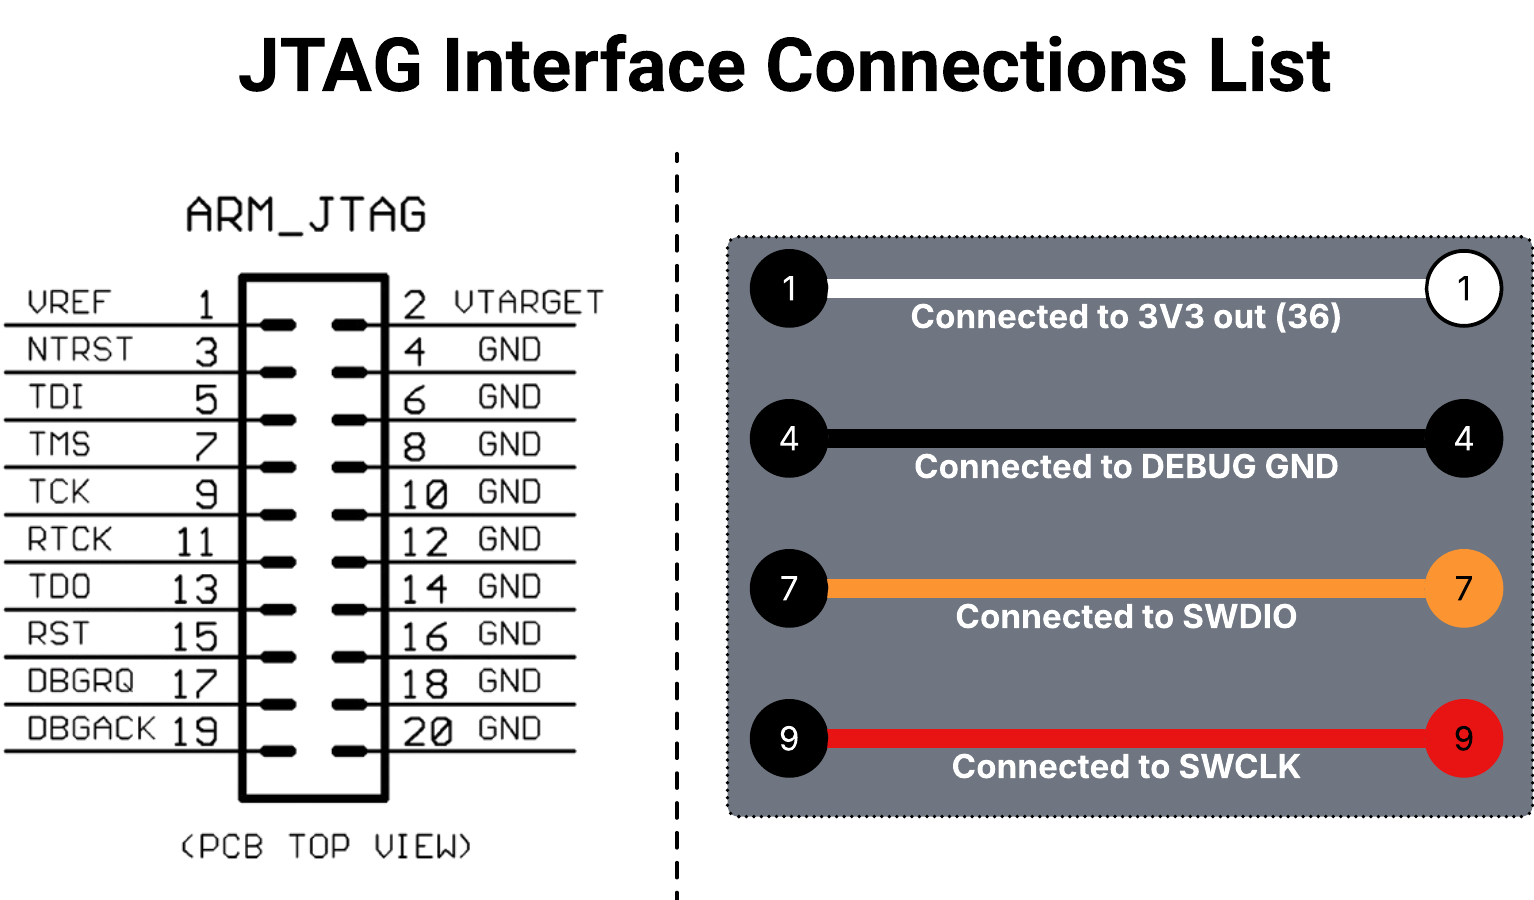
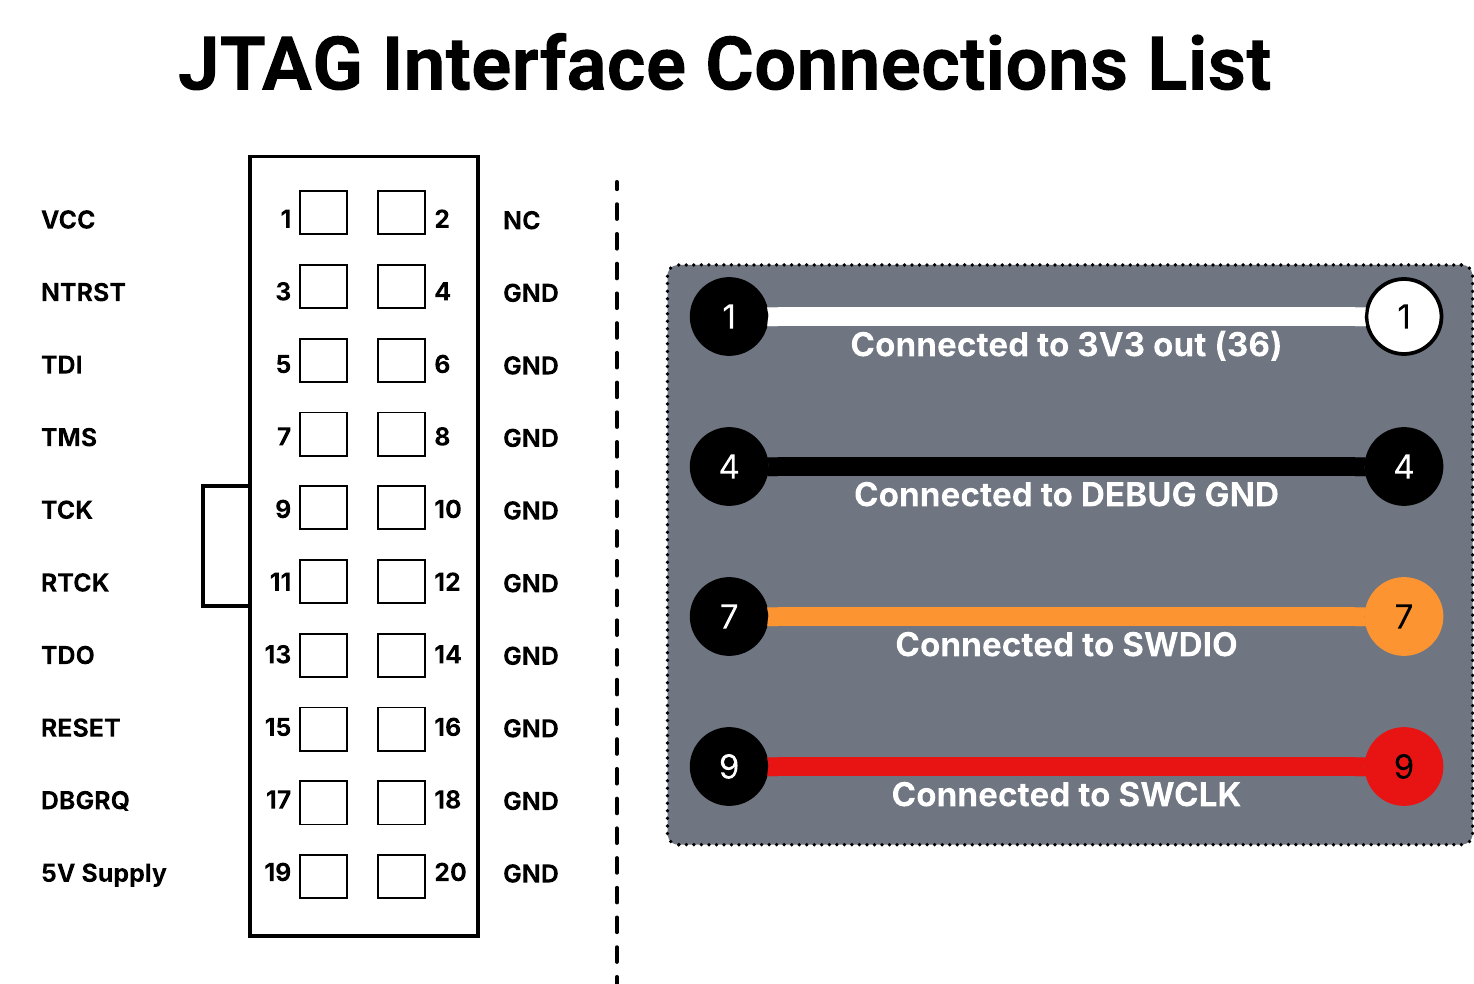
Final changes V2

diff --git a/Chapters/implementation.tex b/Chapters/implementation.tex
@@ -93,7 +93,7 @@ Now the board shows as a CMSIS-DAP probe in the list of devices, and we can proc
 
 \subsection{SEGGER J-link}
 
-\begin{figure}[H]
+\begin{figure}[]
     \begin{center}
       \includegraphics[width=0.48\textwidth]{jlink\_setup}
     \end{center}
@@ -101,20 +101,21 @@ Now the board shows as a CMSIS-DAP probe in the list of devices, and we can proc
     \label{fig:jlink_setup}
 \end{figure}
 
-The SEGGER J-Link, specifically the J-Link EDU V11 model, implementation requires a lot of background setup work before it becomes a viable debugging solution. Since the target device in this case the TKJHAT board that is already attached to a Single Board Computer (SBC) in the form of the Pico W, a direct connection via the debugging pins is possible. Wiring can be difficult without the necessary breakout boards, as loose cables can disrupt debugging operations. This specific implementation utilises male-to-male DuPont wire to bridge the capability gap from the lack of of proper proprietary connectors.
+The SEGGER J-Link, specifically the J-Link EDU V11 model, implementation requires a lot of background setup work before it becomes a viable debugging solution. Since the target device in this case the TKJHAT board that is already attached to a Single Board Computer (SBC) in the form of the Pico W, a direct connection via the debugging pins is possible. Wiring can be difficult without the necessary breakout boards, as loose cables can disrupt debugging operations. This specific implementation, shown in \figref{fig:jlink_setup}, utilises female-to-male DuPont wires to bridge the capability gap from the lack of of proper proprietary connectors.
 
 \begin{figure}[ht]
     \begin{center}
       \includegraphics[width=0.8\textwidth]{jlink\_connections}
     \end{center}
-    \caption{List of connections from the J-Link to the Pico W. JTAG pinout diagram from OLIMEX ARM-JTAG dongle manual \cite{olimex}. Copyright~\textcopyright~2004, OLIMEX Ltd., All rights reserved.}
+    \caption{List of connections from the J-Link to the Pico W. JTAG pinout diagram redrawn and adapted from the OLIMEX ARM-JTAG dongle manual \cite{olimex}. Original source Copyright~\textcopyright~2004,  OLIMEX Ltd., All rights
+    reserved.}
     \label{fig:jlink_connect}
 \end{figure}
 
 
 It is extremely important to correctly wire up this setup. Incorrect connections will most commonly result in a complete failure to establish communication between the SEGGER J-Link EDU V11 and the Pico W. If key signals such as SWDIO, SWCLK, or ground are miswired or not properly connected, the debugger will not be able to detect the target device at all. This typically appears as connection errors in the J-Link software, where the system repeatedly fails to identify or communicate with the microcontroller.
 
-More severe consequences can occur if power-related pins are connected incorrectly. Miswiring voltage lines or shorting power to ground can damage the Pico W, the J-Link device, or both. Even less destructive errors, such as incorrect reference voltage connections, can lead to improper signal levels and unpredictable operation. For this reason, careful verification of all wiring is essential before attempting to use the debugger.
+More severe consequences can occur if power-related pins are connected incorrectly. Miswiring voltage lines or shorting power to ground can damage the Pico W, the J-Link device, or both. Even less destructive errors, such as incorrect reference voltage connections, can lead to improper signal levels and unpredictable operation. For this reason, careful verification of all wiring, illustrated in \figref{fig:jlink_connect}, is essential before attempting to use the debugger.
 
 The Segger J-Link EDU probe requires initial firmware configuration and server setup before use. The firmware update is performed using the JLinkConfig utility, after which the JLinkGDBServer application provides the GDB server interface where it acts a bridge between GDB and the hardware. There exists a GUI for this tool, however, through testing, it has proven to be inflexible. In the instances where certain settings or physical connections are incorrect, the GUI will close automatically without giving the user an opportunity to try again. Therefore, for convenience sake, the command line is preferred for its supperior usability and reliability.
 
@@ -153,7 +154,7 @@ The overarching design philosophy adopted throughout the project placed a strong
     \label{fig:debug_case_1}
 \end{figure}
 
-This philosophy is clearly reflected in the final iteration of the enclosure, particularly in the implementation of a simple inverted dovetail lid mechanism. Earlier versions of the design incorporated a more complex hinge and locking system, which, while functional, introduced additional manufacturing complexity and potential durability concerns. By replacing this mechanism with an inverted dovetail interface, the design achieves secure closure through a purely geometric solution that is both robust and easy to manufacture. This not only reduces the likelihood of mechanical failure but also simplifies assembly and everyday use, aligning with the broader objective of creating a practical and reliable debugging tool for students.
+This philosophy is clearly reflected in the final iteration of the enclosure, particularly in the implementation of a simple inverted dovetail lid mechanism. Earlier versions of the design incorporated a more complex hinge-latch locking system, shown in \figref{fig:debug_case_1}, which while functional, introduced additional manufacturing complexity and potential durability concerns. By replacing this mechanism with an inverted dovetail interface, the design achieves secure closure through a purely geometric solution that is both robust and easy to manufacture. This not only reduces the likelihood of mechanical failure but also simplifies assembly and everyday use, aligning with the broader objective of creating a practical and reliable debugging tool for students. An example of this version, dubbed Version 6, is seen in \figref{fig:debug_case_2}.
 
 \begin{figure}[H]
   \begin{center}
@@ -165,19 +166,19 @@ This philosophy is clearly reflected in the final iteration of the enclosure, pa
 
 The overall cumulative cost of raw materials required for manufacturing represented another significant and non-trivial consideration that was carefully evaluated throughout the iterative design process, given that there existed a clearly identified need to potentially scale the deployment of the debugging platform. After careful evaluation of available manufacturing materials, and due to the favorable combination of affordability characteristics and relative structural durability properties, Polylactic Acid (PLA) thermoplastic filament was selected and designated as the chosen material from which the protective enclosure would be fabricated and produced. The design was additionally and deliberately optimised specifically for ease of manufacturing using commercially available and widely accessible fused deposition modeling (FDM) three-dimensional printing equipment that is commonly present in many professional fabrication facilities, educational institutions, and even home-based maker and fabrication set-ups. 
 
-Through careful iterative optimisation of the design geometry and thoughtful selection of print parameters, the final optimised design iteration achieved a remarkably efficient combined printing time of approximately two hours for the complete assembly and required only 26 grams of PLA filament material for the entire protective casing structure, metrics that clearly indicate and demonstrate a high level of successful optimization with regard to both print settings configuration and manufacturing best practices. The final version of the case also retained the modularity that was envisioned from the start, with it being able to accommodate for all the possible debugging options; from using the available second core present on the SBC to using another SBC to serve as the debugging probe.
+Through careful iterative optimisation of the design geometry and thoughtful selection of print parameters, the final optimised design iteration achieved a remarkably efficient combined printing time of approximately two hours for the complete assembly and required only 26 grams of PLA filament material for the entire protective casing structure, metrics that clearly indicate and demonstrate a high level of successful optimization with regard to both print settings configuration and manufacturing best practices. The final version of the case, shown in \figref{fig:debug_case_3}, also retained the modularity that was envisioned from the start, with it being able to accommodate for all the possible debugging options; from using the available second core present on the SBC to using another SBC to serve as the debugging probe as clearly shown in \figref{fig:debug_case_4}.
 
-\begin{figure}[H]
+\begin{figure}[]
   \begin{center}
-    \includegraphics[width=0.5\textwidth]{final_case}
+    \includegraphics[width=0.45\textwidth]{final_case}
   \end{center}
-  \caption{The final version of the 3D-printed casing with the TKJHAT inside.}
+  \caption{The final version of the 3D-printed casing with the TKJHAT inside. The setup shown is for a second-core debugger.}
   \label{fig:debug_case_3}
 \end{figure}
 
-\begin{figure}[H]
+\begin{figure}[]
   \begin{center}
-    \includegraphics[width=0.5\textwidth]{final_case_second_pico}
+    \includegraphics[width=0.45\textwidth]{final_case_second_pico}
   \end{center}
   \caption{The final version of the 3D-printed casing with wiring set-up for a second pico debugger.}
   \label{fig:debug_case_4}

diff --git a/Chapters/relatedwork.tex b/Chapters/relatedwork.tex
@@ -10,7 +10,7 @@ Especially Pico family boards became increasingly popular in the education. Davi
 
 The debugging is the integral part of the software development process. Its purpose is to ensure proper functioning and the performance of the software. There are different approaches to debugging, with the simplest one being just printing the program values to the output terminal. While this approach is easy to use and requires no additional tools, it has several limitations. Print statements must be manually inserted and removed, they provide visibility only into information explicitly selected by the programmer, and can alter the timing characteristics of the application. In embedded systems, where applications often interact with hardware peripherals and may contain timing-sensitive code, such modifications can mask or even introduce faults.
 
-In this thesis however, we will focus on a more advanced debugging techniques that rely on a debugger, which can pause program execution at user-defined breakpoints. When execution is halted, the developer can inspect the complete program state without modifying the source code. As can be seen in the \figref{fig:breakpoint_features}, this includes examining local and global variable values, processor registers, memory contents, call stacks, and the current execution path. In systems running a Real-Time Operating System (RTOS), the debugger can additionally provide information about active tasks or threads, their states, priorities, stack usage, and scheduling behavior.  The ability to step through code instruction-by-instruction or line-by-line further helps developers understand how program state changes over time and identify the root causes of faults more efficiently than with print-based debugging alone.
+In this thesis however, we will focus on a more advanced debugging techniques that rely on a debugger, which can pause program execution at user-defined breakpoints. When execution is halted, the developer can inspect the complete program state without modifying the source code. As can be seen in \figref{fig:breakpoint_features}, this includes examining local and global variable values, processor registers, memory contents, call stacks, and the current execution path. In systems running a Real-Time Operating System (RTOS), the debugger can additionally provide information about active tasks or threads, their states, priorities, stack usage, and scheduling behavior.  The ability to step through code instruction-by-instruction or line-by-line further helps developers understand how program state changes over time and identify the root causes of faults more efficiently than with print-based debugging alone.
 
 \begin{figure}[ht] 
    \centering
@@ -227,7 +227,7 @@ RP2350 chip has a more complicated debug topology depicted in \figref{fig:rp2350
     \begin{center}
     \includegraphics*[width=\textwidth]{rp2350\_debug}
     \end{center}
-    \caption{RP2350 debug topology. Reproduced from RP2350 Datasheet \cite{raspberry_rp2350}. Copyright~\textcopyright~2023-2025 Raspberry Pi Ltd.}
+    \caption{RP2350 debug topology. Reproduced from RP2350 Datasheet \cite{raspberry_rp2350}. Copyright~\textcopyright~2023-2025 Raspberry Pi Ltd. under CC-SA license.}
     \label{fig:rp2350_debug}
 \end{figure}
  
@@ -251,7 +251,7 @@ J-Link probes support advanced debugging features including Real Time Transfer (
 
 521287A Introduction to Computer Systems is a degree level course that explains how a computer works as a complete stack, moving from high-level programs down to hardware in a conceptual and beginner-friendly way. It is a foundational course that is essential for prospective students wishing to advance to 521286A Computer Systems where the concepts are delved at a much deeper and more technical level, focusing on how these mechanisms are implemented and how they affect performance and functionality. While separate courses, they share the same course content at first as the two are implemented simultaneously, with students of both courses using the TKJHAT to experiment and derive solutions to complex problems presented to them during the implementation time of the courses.
 
-The TKJHAT itself is an open-source, open-hardware, Hardware Attached on Top (HAT) platform designed for the Raspberry Pi Pico W by members of the Faculty of Information Technology and Electrical Engineering to support IoT and embedded systems education in the University of Oulu through the aforementioned courses. The development of this platform was driven by specific requirements identified through systematic evaluation: affordability (under 60€ per student), customizability to meet evolving teaching needs, easy integration into multiple courses, alignment with industry standards, Real-Time Operating System (RTOS) support, and wireless connectivity capabilities \cite{kelhala:2024}.
+The TKJHAT itself, as seen in \figref{fig:tkjhat}, is an open-source, open-hardware, custom-built Hardware Attached on Top (HAT) platform designed for the Raspberry Pi Pico W by members of the Faculty of Information Technology and Electrical Engineering to support IoT and embedded systems education in the University of Oulu through the aforementioned courses. The development of this platform was driven by specific requirements identified through systematic evaluation: affordability (under 60€ per student), customizability to meet evolving teaching needs, easy integration into multiple courses, alignment with industry standards, Real-Time Operating System (RTOS) support, and wireless connectivity capabilities \cite{kelhala:2024}.
 
 \begin{figure}[ht]
     \begin{center}
@@ -269,7 +269,7 @@ FreeRTOS emerged as the preferred choice due to its simplest API, excellent docu
 
 The development environment utilizes Visual Studio Code with the Cortex-Debug extension and CMake, providing full integration with raw Pico SDK and FreeRTOS APIs while offering simple building, flashing, and debugging capabilities through an intuitive user interface \cite{kelhala:2024}. This setup was chosen over PlatformIO, which, despite offering a complete toolchain, limited access to raw SDK functionality due to its Arduino core foundation \cite{kelhala:2024}.
 
-The peripherals present in the TKJHAT reflect its educational design philosophy of balancing simplicity for beginners while maintaining access to low-level hardware functionality for advanced learners \cite{kelhala:2024} and are interfaced in two different ways: via General-Purpose Input/Output (GPIO) pins and Inter-Integrated Circuit ($\text{I}^2\text{C}$) buses.
+The peripherals present in the TKJHAT reflect its educational design philosophy of balancing simplicity for beginners while maintaining access to low-level hardware functionality for advanced learners \cite{kelhala:2024} and are interfaced in two different ways: via General-Purpose Input/Output (GPIO) pins and Inter-Integrated Circuit ($\text{I}^2\text{C}$) buses as seen in the table below.
 
 \begin{table}[H]
     \resizebox{\textwidth}{!}{\begin{tabular}{|l|}

diff --git a/Chapters/experiments.tex b/Chapters/experiments.tex
@@ -43,7 +43,7 @@ Qualitative metrics address the human-centric aspects of the platform. The metri
 
 \subsection{Comparison results}
 
-\begin{table}[!ht]
+\begin{table}[H]
   \def\arraystretch{1.3}
   \begin{center}
     \caption{Comparison Summary of Probe Implementation Candidates}

diff --git a/main.tex b/main.tex
@@ -148,7 +148,7 @@ ALUSTA RP2040- \& RP2350-SIRUILLE}
 %\chapter{Summary}
 %  \label{summary}
 %  \input{Chapters/summary}
-    
+
 \printbibliography[heading=bibnumbered, title=\mybibname]
 
 \startappendix